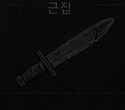
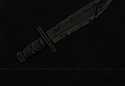
feat(combat): C3 전투 UI 잔손 — 토큰 배지·잔여 턴·아이콘 텍스트 클리핑 해소
- 스킬 카드 '텍스트 클리핑'의 실체 규명: CSS가 아니라 디자인 샘플에서
  크롭한 아이콘 에셋(move/bag/rifle/knife)에 구워진 라벨 띠('기동/위치
  변경/보조/원거리/근접')가 잘린 채 렌더되던 것 — 에셋에서 띠를 크롭 제거
- 토큰 표시: 영문 키 텍스트 → 아이콘+스택+한글 툴팁 (combat.token.* 로케일
  재사용, marked 키 ko/en 신규 등록 — 126:126 패리티 유지)
- 상태이상 잔여 턴 표기: 전장 오브·티커·팝오버 공통 _statusLabel
- 프리뷰 방어 감산은 대상 선택 전 확정 불가라 원피해 표기 유지 (검토 종결)
- UI 기준선 스크린샷 갱신

검증: 표시 테스트 2종 추가(총 33), 전체 980개 통과, validate ALL CLEAR,
E2E 통과 + 스크린샷 육안 확인 (클리핑 0건).

diff --git a/js/ui/CombatUI.js b/js/ui/CombatUI.js
@@ -33,6 +33,12 @@ const SAMPLE_SKILL_LABELS = {
   soldier_tactical_shift: '전술 이동',
 };
 
+const TOKEN_ICONS = {
+  block: '🛡', strength: '💪', power: '⚒', improvised: '🔧',
+  vulnerable: '💔', dodge: '💨', accuracy: '🎯', focus: '👁',
+  taunted: '🗯', hesitation: '😰', speed: '⚡', marked: '☠',
+};
+
 const DANGER_LABEL = ['안전', '보통', '경계', '위험', '극위험', '극위험'];
 const DANGER_COLOR = ['#449944', '#889933', '#cc8822', '#cc3333', '#881111', '#881111'];
 
@@ -276,6 +282,12 @@ const CombatUI = {
     return String(skill.id ?? '').replace(/^combat\.skill\./, '').replaceAll('_', ' ');
   },
 
+  // 상태이상 라벨 + 잔여 턴 — "무엇이 언제 끝나는지"가 대응 판단의 재료
+  _statusLabel(status) {
+    const name = status?.name ?? status?.id ?? 'status';
+    return Number.isFinite(status?.duration) ? `${name}(${status.duration})` : name;
+  },
+
   _skillIconHtml(icon, isAttack = false) {
     const key = icon ?? (isAttack ? 'strike' : 'item');
     const src = combatAssetManifest.skillIcon(key, isAttack ? 'strike' : 'item');
@@ -328,7 +340,11 @@ const CombatUI = {
     const hpPct = Math.max(0, Math.min(100, (hp / maxHp) * 100));
     const tokens = Object.entries(combatant.tokens ?? {})
       .filter(([, stacks]) => stacks > 0)
-      .map(([token, stacks]) => `<span class="combat-token">${this._escape(token)} ${stacks}</span>`)
+      .map(([token, stacks]) => {
+        const label = I18n.t(`combat.token.${token}`);
+        return `<span class="combat-token" title="${this._escape(label)} ×${stacks}">`
+          + `${TOKEN_ICONS[token] ?? '◆'}${stacks > 1 ? `<i>${stacks}</i>` : ''}</span>`;
+      })
       .join('');
     const isEnemy = combatant.side === 'enemy';
     // 의도 표시 단일 소스: 실행 경로(_runSingleEnemyTurn)가 소비하는 _nextIntent만 사용 —
@@ -363,8 +379,8 @@ const CombatUI = {
     const statuses = [
       ...Object.entries(combatant.tokens ?? {})
         .filter(([, stacks]) => stacks > 0)
-        .map(([token, stacks]) => `${token} ${stacks}`),
-      ...(combatant.statusEffects ?? []).map(status => status.name ?? status.id ?? 'status'),
+        .map(([token, stacks]) => `${I18n.t(`combat.token.${token}`)} ${stacks}`),
+      ...(combatant.statusEffects ?? []).map(status => this._statusLabel(status)),
     ];
     const anchorCls = isEnemy
       ? 'cv-enemy-sprite'
@@ -508,7 +524,7 @@ const CombatUI = {
     const combatant = combat?.combatants?.[combatantId];
     if (!combatant) return '';
     const statuses = (combatant.statusEffects ?? [])
-      .map(status => this._escape(status.id ?? status.name ?? 'status'))
+      .map(status => this._escape(this._statusLabel(status)))
       .join(', ');
     return `
       <aside class="combat-detail-popover" data-popover-for="${this._escape(combatantId)}">

diff --git a/tests/integration/CombatTelegraph.int.test.js b/tests/integration/CombatTelegraph.int.test.js
@@ -540,3 +540,35 @@ describe('F5 — 스트레스 동요·붕괴·도주', () => {
     expect(CombatSystem._situationalFleeChance()).toBeCloseTo(0.5, 5);
   });
 });
+
+describe('C3 — 토큰 배지·상태이상 잔여 턴 표시', () => {
+  it('토큰은 아이콘+스택+한글 툴팁으로 렌더된다', async () => {
+    const CombatUI = (await import('../../js/ui/CombatUI.js')).default;
+    CombatUI._screen = document.getElementById('screen-combat');
+    const combat = setupCombat({ enemies: [makeEnemy()] });
+    combat.combatants.player.tokens = { focus: 2 };
+
+    CombatUI.render();
+
+    const badge = document.querySelector('.combat-token');
+    expect(badge).not.toBeNull();
+    expect(badge.getAttribute('title')).toBe('집중 ×2');
+    expect(badge.textContent).toContain('2');
+    expect(badge.textContent).not.toContain('focus');
+  });
+
+  it('전장 유닛의 상태이상 오브에 잔여 턴이 표기된다', async () => {
+    const CombatUI = (await import('../../js/ui/CombatUI.js')).default;
+    CombatUI._screen = document.getElementById('screen-combat');
+    const combat = setupCombat({ enemies: [makeEnemy()] });
+    combat.combatants['enemy:0'].statusEffects = [
+      { id: 'bleed', name: '출혈', duration: 3, effect: { hpLossPerRound: 3 } },
+    ];
+
+    CombatUI.render();
+
+    const orbs = document.querySelector('[data-combatant-id="enemy:0"] .combat-status-orbs');
+    expect(orbs).not.toBeNull();
+    expect(orbs.textContent).toContain('출혈(3)');
+  });
+});

diff --git a/js/data/locales.js b/js/data/locales.js
@@ -759,6 +759,7 @@ export const ko = {
   'combat.token.taunted':          '도발',
   'combat.token.hesitation':       '망설임',
   'combat.token.speed':            '속도',
+  'combat.token.marked':           '표식',
 
   // ── CraftSystem ─────────────────────────────────────────────
   'craftSys.queueFull':      '작업 큐가 가득 참',
@@ -1673,6 +1674,7 @@ export const en = {
   'combat.token.taunted':          'Taunted',
   'combat.token.hesitation':       'Hesitation',
   'combat.token.speed':            'Speed',
+  'combat.token.marked':           'Marked',
 
   // ── CraftSystem ─────────────────────────────────────────────
   'craftSys.queueFull':      'Queue is full',

diff --git a/css/screens-combat.css b/css/screens-combat.css
@@ -346,10 +346,19 @@
   padding: 1px 4px;
   border-radius: 3px;
   font-family: var(--font-mono);
-  font-size: 8px;
+  font-size: 10px;
+  line-height: 1.1;
   color: #e8c84a;
   background: rgba(200, 160, 40, 0.16);
   border: 1px solid rgba(200, 160, 40, 0.28);
+  cursor: help;
+}
+
+.combat-token i {
+  margin-left: 2px;
+  font-style: normal;
+  font-size: 8px;
+  vertical-align: top;
 }
 
 .combat-intent {
